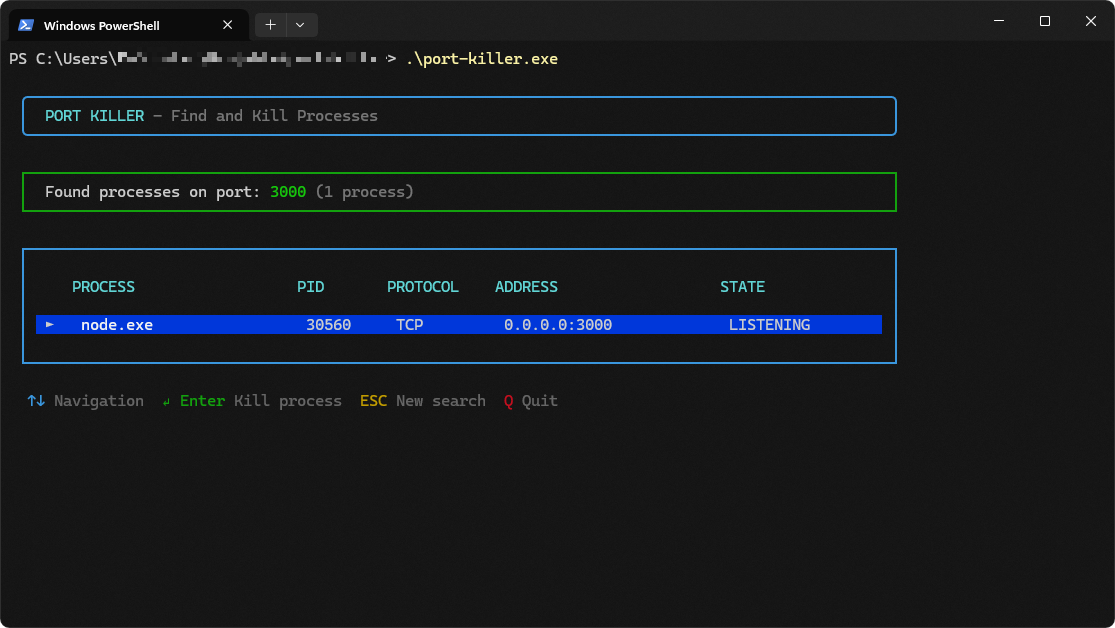
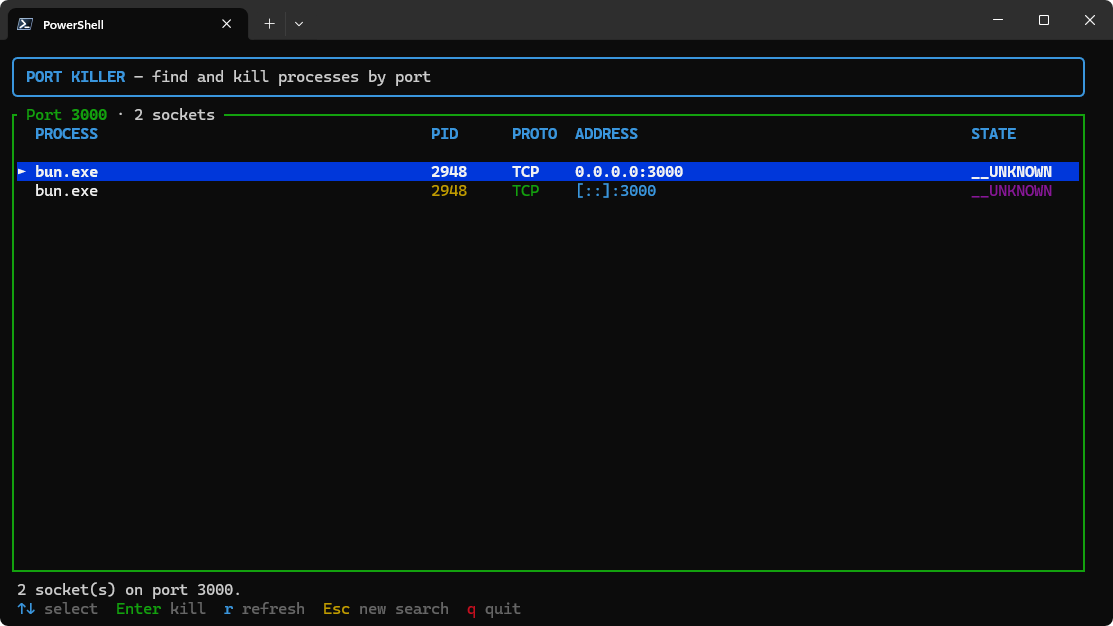
feat: update dependencies and improve error handling in process management

diff --git a/src/ports.rs b/src/ports.rs
@@ -44,7 +44,7 @@ pub fn find(port: u16) -> Result<Vec<Entry>> {
     }
 
     // A full refresh also names processes we may not open, e.g. services on Windows.
-    let mut sys = System::new();
+    let mut sys = System::new().context("could not read the process list")?;
     sys.refresh_processes_specifics(ProcessesToUpdate::All, true, ProcessRefreshKind::nothing());
     for e in &mut entries {
         e.name = match sys.process(Pid::from_u32(e.pid)) {
@@ -63,7 +63,7 @@ pub fn find(port: u16) -> Result<Vec<Entry>> {
 /// Force-kills `pid` and waits up to a second for it to disappear.
 pub fn kill(pid: u32) -> Result<()> {
     let pid = Pid::from_u32(pid);
-    let mut sys = System::new();
+    let mut sys = System::new().context("could not read the process list")?;
     let refresh = |sys: &mut System| {
         sys.refresh_processes_specifics(
             ProcessesToUpdate::Some(&[pid]),
